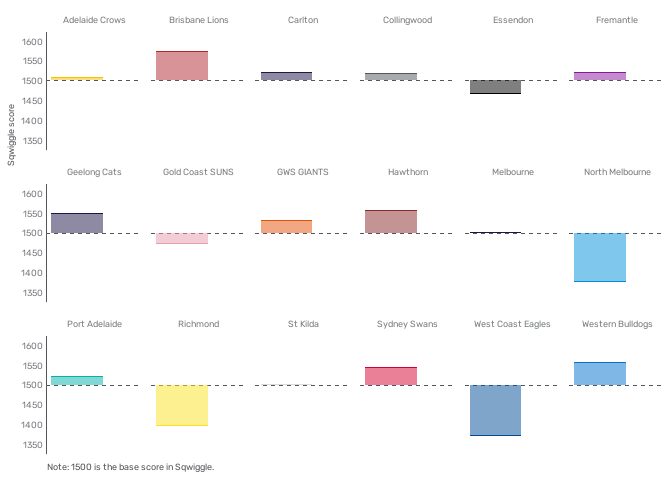
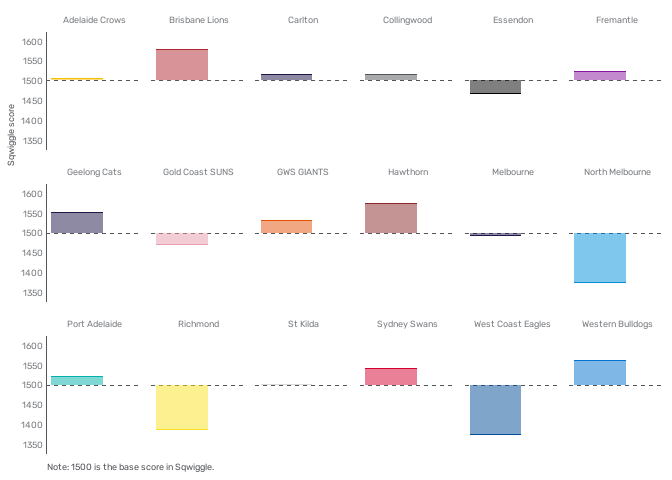
New parameters

diff --git a/README.md b/README.md
@@ -74,16 +74,16 @@ Adelaide Crows
 1
 </td>
 <td style="text-align:right;background-color: rgba(136, 219, 223, 255) !important;">
-10
+9
 </td>
 <td style="text-align:right;background-color: rgba(136, 219, 223, 255) !important;">
 11
 </td>
 <td style="text-align:right;background-color: rgba(136, 219, 223, 255) !important;">
-9
+8
 </td>
 <td style="text-align:right;background-color: rgba(136, 219, 223, 255) !important;">
-1520.084
+1516.534
 </td>
 </tr>
 <tr>
@@ -109,7 +109,7 @@ Brisbane Lions
 -1
 </td>
 <td style="text-align:right;background-color: rgba(136, 219, 223, 255) !important;">
-1544.476
+1541.995
 </td>
 </tr>
 <tr>
@@ -135,7 +135,7 @@ Carlton
 8
 </td>
 <td style="text-align:right;background-color: rgba(136, 219, 223, 255) !important;">
-1405.198
+1395.034
 </td>
 </tr>
 <tr>
@@ -146,22 +146,22 @@ Collingwood
 0
 </td>
 <td style="text-align:right;background-color: rgba(136, 219, 223, 255) !important;">
-13
+12
 </td>
 <td style="text-align:right;background-color: rgba(136, 219, 223, 255) !important;">
 4
 </td>
 <td style="text-align:right;background-color: rgba(136, 219, 223, 255) !important;">
-9
+10
 </td>
 <td style="text-align:right;background-color: rgba(136, 219, 223, 255) !important;">
 10
 </td>
 <td style="text-align:right;background-color: rgba(136, 219, 223, 255) !important;">
-5
+6
 </td>
 <td style="text-align:right;background-color: rgba(136, 219, 223, 255) !important;">
-1507.914
+1506.550
 </td>
 </tr>
 <tr>
@@ -172,7 +172,7 @@ Essendon
 0
 </td>
 <td style="text-align:right;background-color: rgba(136, 219, 223, 255) !important;">
-4
+5
 </td>
 <td style="text-align:right;background-color: rgba(136, 219, 223, 255) !important;">
 5
@@ -187,7 +187,7 @@ Essendon
 10
 </td>
 <td style="text-align:right;background-color: rgba(136, 219, 223, 255) !important;">
-1557.301
+1573.878
 </td>
 </tr>
 <tr>
@@ -198,7 +198,7 @@ Fremantle
 0
 </td>
 <td style="text-align:right;background-color: rgba(136, 219, 223, 255) !important;">
-14
+13
 </td>
 <td style="text-align:right;background-color: rgba(136, 219, 223, 255) !important;">
 6
@@ -213,7 +213,7 @@ Fremantle
 1
 </td>
 <td style="text-align:right;background-color: rgba(136, 219, 223, 255) !important;">
-1549.717
+1552.274
 </td>
 </tr>
 <tr>
@@ -239,7 +239,7 @@ Geelong Cats
 -4
 </td>
 <td style="text-align:right;background-color: rgba(136, 219, 223, 255) !important;">
-1520.068
+1520.668
 </td>
 </tr>
 <tr>
@@ -250,7 +250,7 @@ Gold Coast SUNS
 0
 </td>
 <td style="text-align:right;background-color: rgba(136, 219, 223, 255) !important;">
-5
+6
 </td>
 <td style="text-align:right;background-color: rgba(136, 219, 223, 255) !important;">
 8
@@ -265,7 +265,7 @@ Gold Coast SUNS
 6
 </td>
 <td style="text-align:right;background-color: rgba(136, 219, 223, 255) !important;">
-1380.958
+1383.330
 </td>
 </tr>
 <tr>
@@ -276,7 +276,7 @@ GWS GIANTS
 0
 </td>
 <td style="text-align:right;background-color: rgba(255, 255, 255, 255) !important;">
-14
+13
 </td>
 <td style="text-align:right;background-color: rgba(255, 255, 255, 255) !important;">
 9
@@ -291,7 +291,7 @@ GWS GIANTS
 -1
 </td>
 <td style="text-align:right;background-color: rgba(255, 255, 255, 255) !important;">
-1556.274
+1562.099
 </td>
 </tr>
 <tr>
@@ -317,7 +317,7 @@ Hawthorn
 -8
 </td>
 <td style="text-align:right;background-color: rgba(255, 255, 255, 255) !important;">
-1470.768
+1471.121
 </td>
 </tr>
 <tr>
@@ -328,22 +328,22 @@ Melbourne
 0
 </td>
 <td style="text-align:right;background-color: rgba(255, 255, 255, 255) !important;">
-9
+8
 </td>
 <td style="text-align:right;background-color: rgba(255, 255, 255, 255) !important;">
 11
 </td>
 <td style="text-align:right;background-color: rgba(255, 255, 255, 255) !important;">
-12
+13
 </td>
 <td style="text-align:right;background-color: rgba(255, 255, 255, 255) !important;">
 13
 </td>
 <td style="text-align:right;background-color: rgba(255, 255, 255, 255) !important;">
-1
+2
 </td>
 <td style="text-align:right;background-color: rgba(255, 255, 255, 255) !important;">
-1501.163
+1502.253
 </td>
 </tr>
 <tr>
@@ -369,7 +369,7 @@ North Melbourne
 6
 </td>
 <td style="text-align:right;background-color: rgba(255, 255, 255, 255) !important;">
-1522.040
+1521.339
 </td>
 </tr>
 <tr>
@@ -380,7 +380,7 @@ Port Adelaide
 0
 </td>
 <td style="text-align:right;background-color: rgba(255, 255, 255, 255) !important;">
-17
+16
 </td>
 <td style="text-align:right;background-color: rgba(255, 255, 255, 255) !important;">
 13
@@ -395,7 +395,7 @@ Port Adelaide
 -8
 </td>
 <td style="text-align:right;background-color: rgba(255, 255, 255, 255) !important;">
-1376.512
+1375.817
 </td>
 </tr>
 <tr>
@@ -421,7 +421,7 @@ Richmond
 2
 </td>
 <td style="text-align:right;background-color: rgba(255, 255, 255, 255) !important;">
-1520.670
+1517.132
 </td>
 </tr>
 <tr>
@@ -432,22 +432,22 @@ St Kilda
 0
 </td>
 <td style="text-align:right;background-color: rgba(255, 255, 255, 255) !important;">
-7
+10
 </td>
 <td style="text-align:right;background-color: rgba(255, 255, 255, 255) !important;">
 15
 </td>
 <td style="text-align:right;background-color: rgba(255, 255, 255, 255) !important;">
-13
+12
 </td>
 <td style="text-align:right;background-color: rgba(255, 255, 255, 255) !important;">
 12
 </td>
 <td style="text-align:right;background-color: rgba(255, 255, 255, 255) !important;">
--2
+-3
 </td>
 <td style="text-align:right;background-color: rgba(255, 255, 255, 255) !important;">
-1501.404
+1494.812
 </td>
 </tr>
 <tr>
@@ -473,7 +473,7 @@ Sydney Swans
 -10
 </td>
 <td style="text-align:right;background-color: rgba(255, 255, 255, 255) !important;">
-1573.121
+1576.539
 </td>
 </tr>
 <tr>
@@ -499,7 +499,7 @@ West Coast Eagles
 0
 </td>
 <td style="text-align:right;background-color: rgba(255, 255, 255, 255) !important;">
-1474.220
+1470.300
 </td>
 </tr>
 <tr>
@@ -525,7 +525,7 @@ Western Bulldogs
 -14
 </td>
 <td style="text-align:right;background-color: rgba(255, 255, 255, 255) !important;">
-1533.418
+1534.691
 </td>
 </tr>
 </tbody>
@@ -622,13 +622,13 @@ Sydney Swans
 Carlton
 </td>
 <td style="text-align:right;">
-0.5369682
+0.5397348
 </td>
 <td style="text-align:right;">
-2
+4
 </td>
 <td style="text-align:right;">
-6
+8
 </td>
 <td style="text-align:left;">
 Sydney Swans
@@ -645,13 +645,13 @@ Gold Coast SUNS
 Geelong Cats
 </td>
 <td style="text-align:right;">
-0.3992702
+0.3934700
 </td>
 <td style="text-align:right;">
-5
+7
 </td>
 <td style="text-align:right;">
--5
+-4
 </td>
 <td style="text-align:left;">
 Geelong Cats
@@ -668,10 +668,10 @@ GWS GIANTS
 Hawthorn
 </td>
 <td style="text-align:right;">
-0.4664710
+0.4462183
 </td>
 <td style="text-align:right;">
-2
+4
 </td>
 <td style="text-align:right;">
 -1
@@ -691,13 +691,13 @@ Brisbane Lions
 Western Bulldogs
 </td>
 <td style="text-align:right;">
-0.5339812
-</td>
-<td style="text-align:right;">
-4
+0.5348167
 </td>
 <td style="text-align:right;">
 7
+</td>
+<td style="text-align:right;">
+10
 </td>
 <td style="text-align:left;">
 Brisbane Lions
@@ -714,13 +714,13 @@ St Kilda
 Collingwood
 </td>
 <td style="text-align:right;">
-0.4727972
+0.4794602
 </td>
 <td style="text-align:right;">
 0
 </td>
 <td style="text-align:right;">
--3
+-2
 </td>
 <td style="text-align:left;">
 Collingwood
